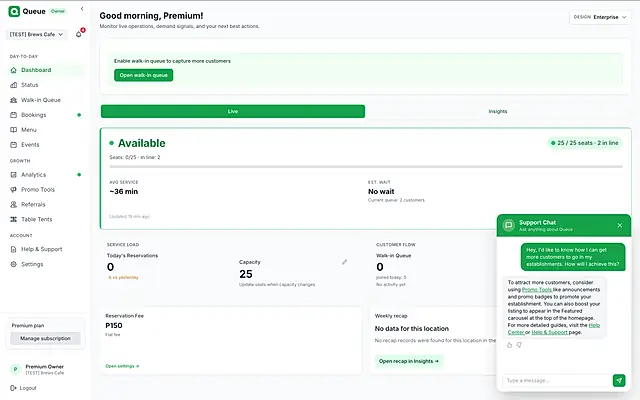
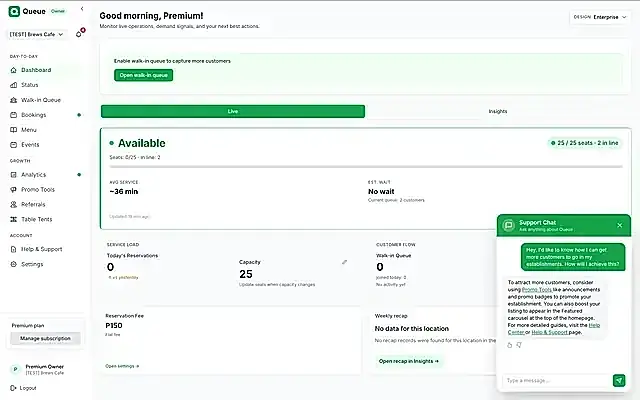
Crop capability band screenshots to consistent browser and portrait aspects.
Add aspect-center and gutter crop configs in optimize-images, retrim billing, chatbot, and deployment WebP variants, and refresh the image manifest.

diff --git a/scripts/optimize-images.test.ts b/scripts/optimize-images.test.ts
@@ -7,6 +7,7 @@ import {
   getSharpenProfile,
   MANATAL_GUTTER_CROP,
   mergeManifestEntry,
+  resolveAspectCenterCropRect,
   resolveImageCropRect,
 } from "./optimize-images.mjs";
 
@@ -93,15 +94,53 @@ describe("optimize-images crop rects", () => {
   });
 
   it("applies unified MANATAL_GUTTER_CROP to all Manatal screenshots", () => {
-    expect(getImageCropConfig("manatal-coop-homepage.png")).toEqual(
-      MANATAL_GUTTER_CROP,
-    );
-    expect(getImageCropConfig("manatal-coop-signin.png")).toEqual(
-      MANATAL_GUTTER_CROP,
-    );
-    expect(getImageCropConfig("manatal-coop-chatbot.png")).toEqual(
-      MANATAL_GUTTER_CROP,
-    );
+    expect(getImageCropConfig("manatal-coop-homepage.png")).toEqual({
+      type: "insets",
+      insets: MANATAL_GUTTER_CROP,
+    });
+    expect(getImageCropConfig("manatal-coop-signin.png")).toEqual({
+      type: "insets",
+      insets: MANATAL_GUTTER_CROP,
+    });
+    expect(getImageCropConfig("manatal-coop-chatbot.png")).toEqual({
+      type: "insets",
+      insets: MANATAL_GUTTER_CROP,
+    });
+  });
+
+  it("applies aspect center crop to capability band browser screenshots", () => {
+    expect(getImageCropConfig("lemonsqueezy-dashboard.png")).toEqual({
+      type: "aspect",
+      ratio: 16 / 10,
+    });
+    expect(
+      getImageCropConfig("chatbot-placement-in-full-dashboard.png"),
+    ).toEqual({
+      type: "aspect",
+      ratio: 16 / 10,
+    });
+  });
+
+  it("trims chatbot-start side gutters while keeping portrait aspect", () => {
+    expect(getImageCropConfig("chatbot-start.png")).toEqual({
+      type: "insets",
+      insets: { left: 0.05, right: 0.05 },
+    });
+  });
+
+  it("resolves 16:10 center crop from wider source", () => {
+    expect(resolveAspectCenterCropRect(1840, 1150, 16 / 10)).toEqual({
+      left: 0,
+      top: 0,
+      width: 1840,
+      height: 1150,
+    });
+    expect(resolveAspectCenterCropRect(1840, 1200, 16 / 10)).toEqual({
+      left: 0,
+      top: 25,
+      width: 1840,
+      height: 1150,
+    });
   });
 
   it("defines canonical Manatal crop size from reference viewport", () => {
